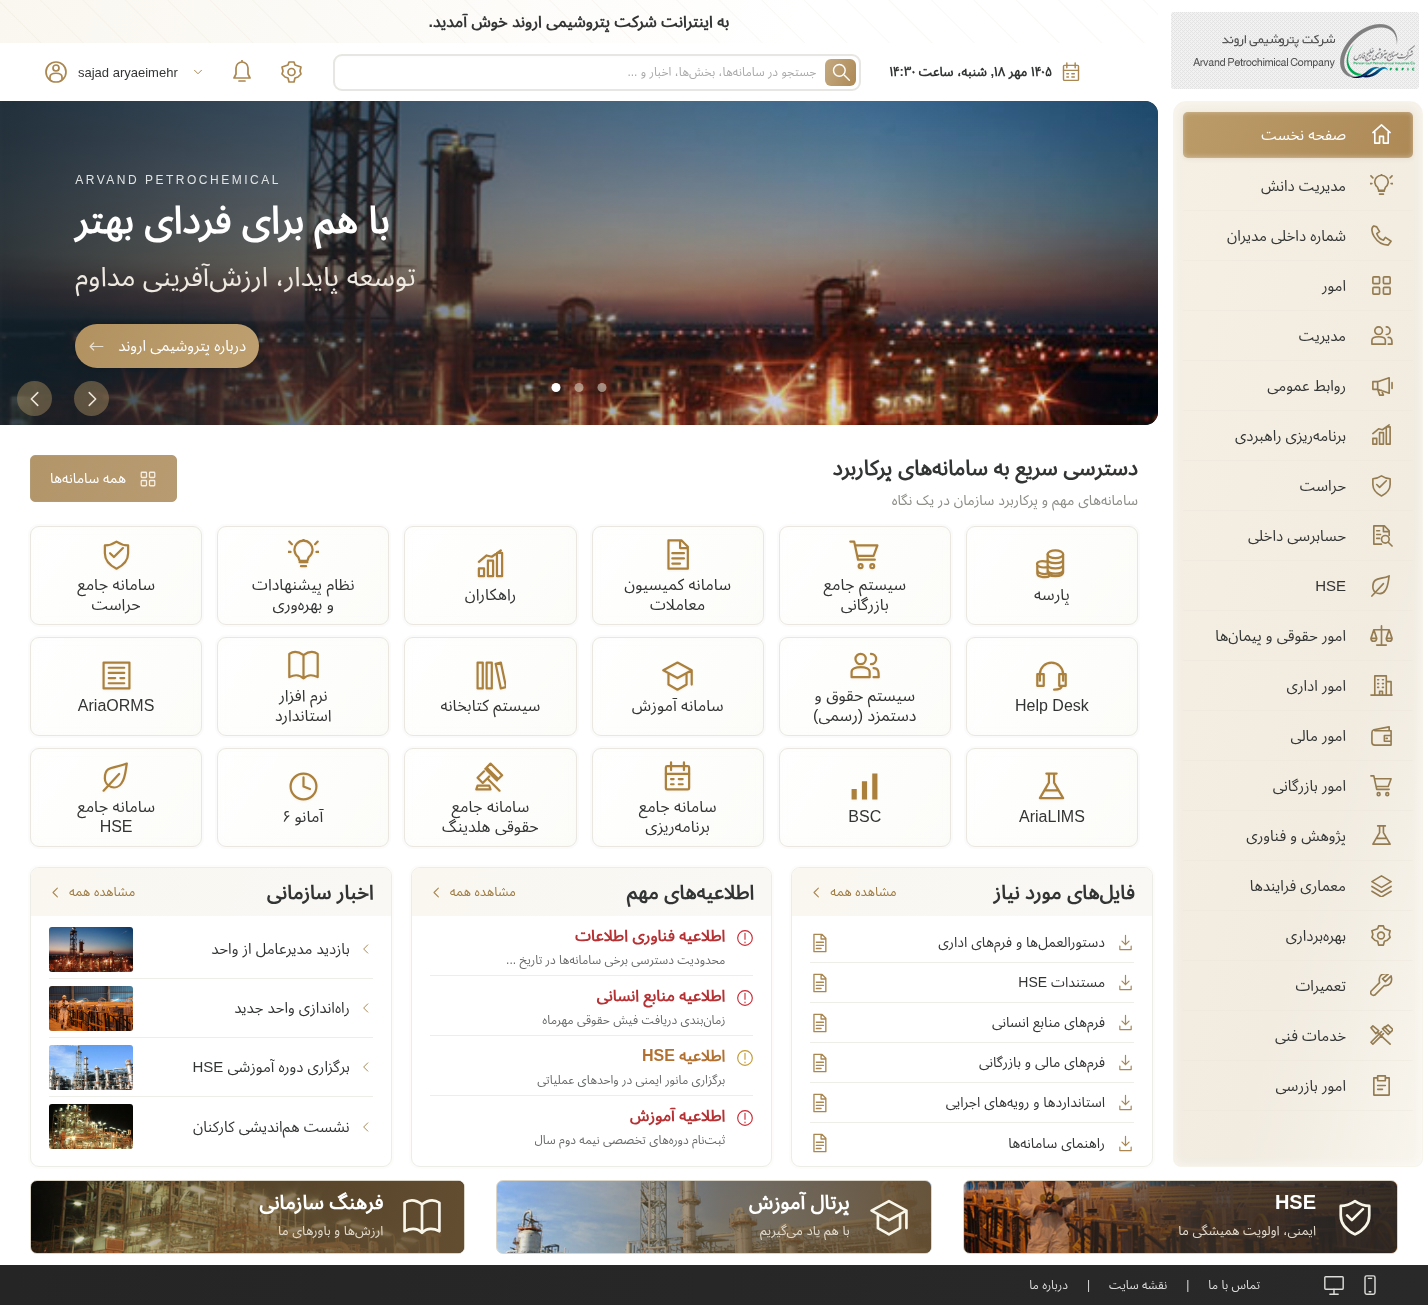
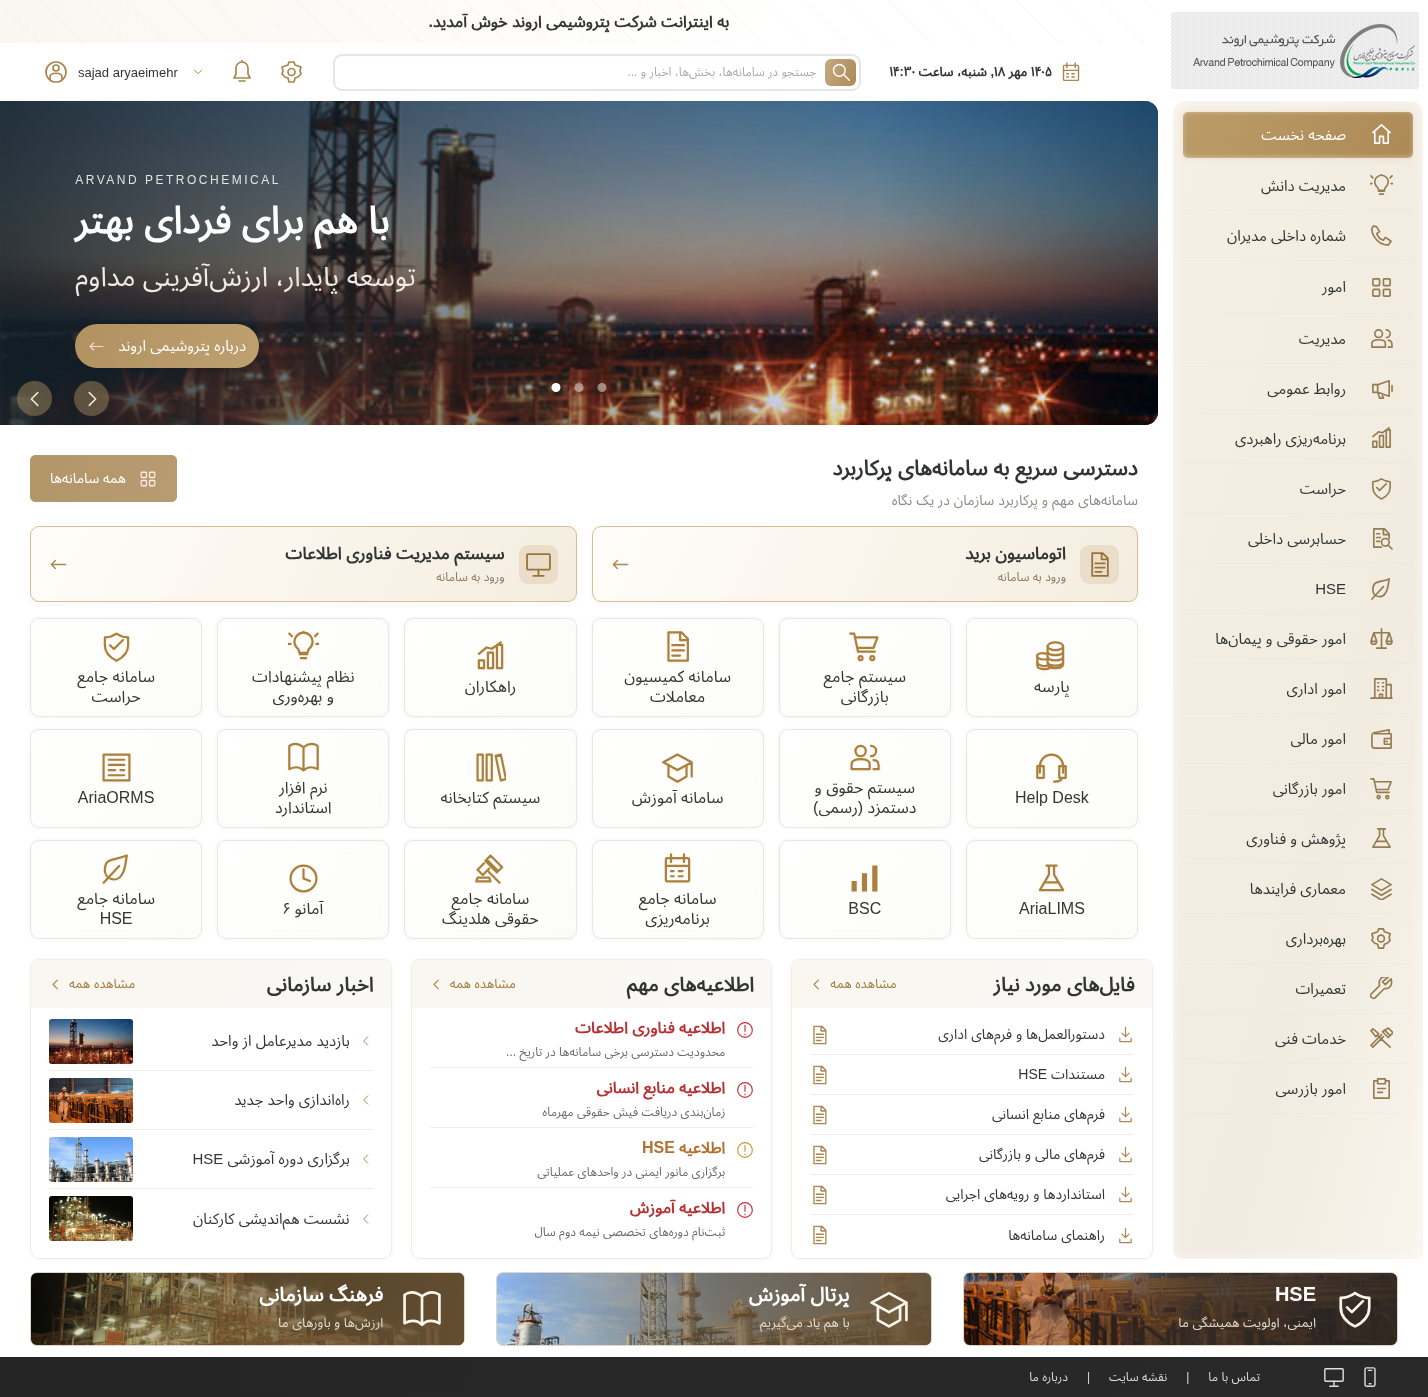
Promote Bareed automation and IT management to homepage shortcuts

diff --git a/ArvandIntranet/Intranet/CSS/portal.css b/ArvandIntranet/Intranet/CSS/portal.css
@@ -61,6 +61,15 @@ body.portal-page{margin:0;background:#fff;color:var(--portal-ink);font:15px Port
 .portal-gold-button{display:flex;align-items:center;gap:13px;padding:0 19px;height:47px;border:1px solid #b39b75;border-radius:5px;background:linear-gradient(110deg,#b29569,#b99b71);color:#fff!important;font-size:14px!important;white-space:nowrap;margin-top:3px}
 .portal-gold-button i[data-icon]{color:#f6eee1;width:18px;height:18px}
 .portal-system-grid{display:grid;grid-template-columns:repeat(6,minmax(0,1fr));gap:12px 15px}
+.portal-priority-systems{display:grid;grid-template-columns:repeat(2,minmax(0,1fr));gap:15px;margin-bottom:16px}
+.portal-priority-card{display:flex;align-items:center;gap:14px;min-height:76px;width:100%;padding:12px 18px;text-align:right;border:1px solid #d5bf99;border-radius:9px;background:linear-gradient(115deg,#fffdf9,#f4eddf);box-shadow:0 2px 6px #a5875010}
+.portal-priority-card>i[data-icon]:first-child{width:39px;height:39px;padding:7px;background:#eadeca;border-radius:9px;color:#987337}
+.portal-priority-card>span{flex:1;min-width:0}
+.portal-priority-card strong{display:block;font-size:17px;line-height:1.4}
+.portal-priority-card small{display:block;color:#8a795f;font-size:12px;line-height:1.5;margin-top:3px}
+.portal-priority-card>i[data-icon]:last-child{width:19px;height:19px}
+.portal-priority-card:hover{border-color:#ac874a;box-shadow:0 3px 10px #a5875020}
+@media(max-width:760px){.portal-priority-systems{grid-template-columns:minmax(0,1fr);gap:10px}.portal-priority-card{padding:12px 14px}.portal-priority-card strong{font-size:16px}}
 .portal-system-card{min-width:0;height:99px;padding:11px 5px 9px;display:flex;flex-direction:column;align-items:center;justify-content:center;gap:5px;border:1px solid var(--portal-line);border-radius:9px;background:linear-gradient(125deg,#fff,#fcfcf9);box-shadow:0 0 0 2px #ece9e82b,inset 0 0 10px #ebe8dd15;font-size:16px!important;line-height:1.25;text-align:center;transition:border-color .15s,box-shadow .15s}
 .portal-system-card i[data-icon]{width:31px;height:31px;color:#aa803c;filter:drop-shadow(0 1px 1px #c4a46b25)}
 .portal-system-card:hover{border-color:var(--portal-gold-light);box-shadow:0 2px 8px #ab89571f}

diff --git a/ArvandIntranet/Intranet/Scripts/portal.js b/ArvandIntranet/Intranet/Scripts/portal.js
@@ -96,6 +96,29 @@
         node.appendChild(element('span', '', title));
         return node;
     }
+    function renderPrioritySystems() {
+        var container = root.querySelector('[data-priority-systems]');
+        var priorities = [
+            {title: 'اتوماسیون برید', icon: 'file', aliases: ['اتوماسیون برید', 'اتوماسیون اداری برید'], matches: function (title) { return /برید/.test(title); }},
+            {title: 'سیستم مدیریت فناوری اطلاعات', icon: 'monitor', aliases: ['سیستم مدیریت فناوری اطلاعات', 'سامانه مدیریت فناوری اطلاعات', 'ITSM'], matches: function (title) { return /مدیریت.*فناوری.*اطلاعات/.test(title); }}
+        ];
+        priorities.forEach(function (priority) {
+            var configured;
+            priority.aliases.some(function (alias) {
+                configured = find(data.systems, alias);
+                return !!configured;
+            });
+            if (!configured) configured = data.systems.find(function (item) { return priority.matches(normalized(item.title)); });
+            var card = action('portal-priority-card', priority.title, configured && configured.url);
+            card.appendChild(icon(priority.icon));
+            var text = element('span');
+            text.appendChild(element('strong', '', priority.title));
+            text.appendChild(element('small', '', 'ورود به سامانه'));
+            card.appendChild(text);
+            card.appendChild(icon('arrow-left'));
+            container.appendChild(card);
+        });
+    }
     function renderFiles(container, items) {
         items.forEach(function (item) {
             var row = action('portal-file-row', item.title, item.url);
@@ -187,6 +210,7 @@
         if (kind === 'news') openDialog('اخبار سازمانی', function (body) { renderNews(body, data.news); });
     }
 
+    renderPrioritySystems();
     systems.forEach(function (entry) {
         var configured = find(data.systems, entry[0]);
         root.querySelector('[data-systems]').appendChild(systemCard(entry[0], entry[1], configured && configured.url));

diff --git a/ArvandIntranet/IntranetAdmin/CSS/portal.css b/ArvandIntranet/IntranetAdmin/CSS/portal.css
@@ -61,6 +61,15 @@ body.portal-page{margin:0;background:#fff;color:var(--portal-ink);font:15px Port
 .portal-gold-button{display:flex;align-items:center;gap:13px;padding:0 19px;height:47px;border:1px solid #b39b75;border-radius:5px;background:linear-gradient(110deg,#b29569,#b99b71);color:#fff!important;font-size:14px!important;white-space:nowrap;margin-top:3px}
 .portal-gold-button i[data-icon]{color:#f6eee1;width:18px;height:18px}
 .portal-system-grid{display:grid;grid-template-columns:repeat(6,minmax(0,1fr));gap:12px 15px}
+.portal-priority-systems{display:grid;grid-template-columns:repeat(2,minmax(0,1fr));gap:15px;margin-bottom:16px}
+.portal-priority-card{display:flex;align-items:center;gap:14px;min-height:76px;width:100%;padding:12px 18px;text-align:right;border:1px solid #d5bf99;border-radius:9px;background:linear-gradient(115deg,#fffdf9,#f4eddf);box-shadow:0 2px 6px #a5875010}
+.portal-priority-card>i[data-icon]:first-child{width:39px;height:39px;padding:7px;background:#eadeca;border-radius:9px;color:#987337}
+.portal-priority-card>span{flex:1;min-width:0}
+.portal-priority-card strong{display:block;font-size:17px;line-height:1.4}
+.portal-priority-card small{display:block;color:#8a795f;font-size:12px;line-height:1.5;margin-top:3px}
+.portal-priority-card>i[data-icon]:last-child{width:19px;height:19px}
+.portal-priority-card:hover{border-color:#ac874a;box-shadow:0 3px 10px #a5875020}
+@media(max-width:760px){.portal-priority-systems{grid-template-columns:minmax(0,1fr);gap:10px}.portal-priority-card{padding:12px 14px}.portal-priority-card strong{font-size:16px}}
 .portal-system-card{min-width:0;height:99px;padding:11px 5px 9px;display:flex;flex-direction:column;align-items:center;justify-content:center;gap:5px;border:1px solid var(--portal-line);border-radius:9px;background:linear-gradient(125deg,#fff,#fcfcf9);box-shadow:0 0 0 2px #ece9e82b,inset 0 0 10px #ebe8dd15;font-size:16px!important;line-height:1.25;text-align:center;transition:border-color .15s,box-shadow .15s}
 .portal-system-card i[data-icon]{width:31px;height:31px;color:#aa803c;filter:drop-shadow(0 1px 1px #c4a46b25)}
 .portal-system-card:hover{border-color:var(--portal-gold-light);box-shadow:0 2px 8px #ab89571f}

diff --git a/ArvandIntranet/IntranetAdmin/Scripts/portal.js b/ArvandIntranet/IntranetAdmin/Scripts/portal.js
@@ -96,6 +96,29 @@
         node.appendChild(element('span', '', title));
         return node;
     }
+    function renderPrioritySystems() {
+        var container = root.querySelector('[data-priority-systems]');
+        var priorities = [
+            {title: 'اتوماسیون برید', icon: 'file', aliases: ['اتوماسیون برید', 'اتوماسیون اداری برید'], matches: function (title) { return /برید/.test(title); }},
+            {title: 'سیستم مدیریت فناوری اطلاعات', icon: 'monitor', aliases: ['سیستم مدیریت فناوری اطلاعات', 'سامانه مدیریت فناوری اطلاعات', 'ITSM'], matches: function (title) { return /مدیریت.*فناوری.*اطلاعات/.test(title); }}
+        ];
+        priorities.forEach(function (priority) {
+            var configured;
+            priority.aliases.some(function (alias) {
+                configured = find(data.systems, alias);
+                return !!configured;
+            });
+            if (!configured) configured = data.systems.find(function (item) { return priority.matches(normalized(item.title)); });
+            var card = action('portal-priority-card', priority.title, configured && configured.url);
+            card.appendChild(icon(priority.icon));
+            var text = element('span');
+            text.appendChild(element('strong', '', priority.title));
+            text.appendChild(element('small', '', 'ورود به سامانه'));
+            card.appendChild(text);
+            card.appendChild(icon('arrow-left'));
+            container.appendChild(card);
+        });
+    }
     function renderFiles(container, items) {
         items.forEach(function (item) {
             var row = action('portal-file-row', item.title, item.url);
@@ -187,6 +210,7 @@
         if (kind === 'news') openDialog('اخبار سازمانی', function (body) { renderNews(body, data.news); });
     }
 
+    renderPrioritySystems();
     systems.forEach(function (entry) {
         var configured = find(data.systems, entry[0]);
         root.querySelector('[data-systems]').appendChild(systemCard(entry[0], entry[1], configured && configured.url));

diff --git a/docs/portal-design.md b/docs/portal-design.md
@@ -1,5 +1,7 @@
 # پیادهسازی صفحهٔ نخست مطابق مرجع
 
+به درخواست بعدی کاربر، دو کارت برجستهٔ «اتوماسیون برید» و «سیستم مدیریت فناوری اطلاعات» زیر عنوان دسترسی سریع و بالای شبکهٔ ۱۸ کارت قرار گرفتهاند. این کارتها همان URLهای فهرست سامانههای پایگاه داده را استفاده میکنند؛ URL جدید یا ساختگی برای محیط عملیاتی تعریف نشده است. تطبیق نام، تفاوت ی/ک فارسی و عربی و عنوان «اتوماسیون اداری برید» را پوشش میدهد. در موبایل دو کارت زیر هم قرار میگیرند. تصاویر پیشنمایش بهروز شدهاند.
+
 برای مشاهدهٔ طراحی در Visual Studio، فایل مستقل `ArvandPreview.sln` را باز کنید و F5 بزنید. این میزبان .NET 8 با دادهٔ آزمایشی مشترک اجرا میشود و همان قالبها و داراییهای صفحهٔ اصلی را مصرف میکند؛ Python و SQL Server لازم ندارد. [راهنمای اجرا](../README.md)
 
 قالب به صفحهٔ نخست هر دو سایت متصل است. سایت سالم اعلامشدهٔ کاربر روی پورت 8135، `IntranetAdmin/default.aspx` است؛ [راهنمای همان سایت](working-site-8135.md) مقصد اجرای فعلی را توضیح میدهد. صفحات داخلی و بخش مدیریت، پوسته و رفتار قبلی خود را حفظ میکنند.
